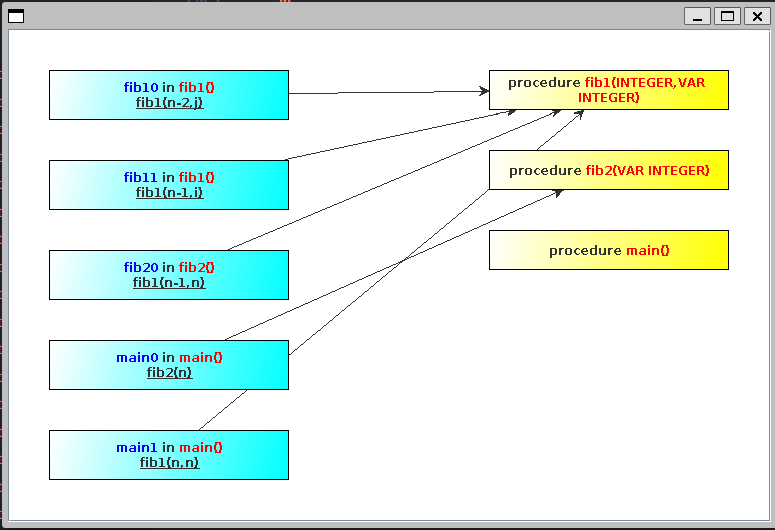
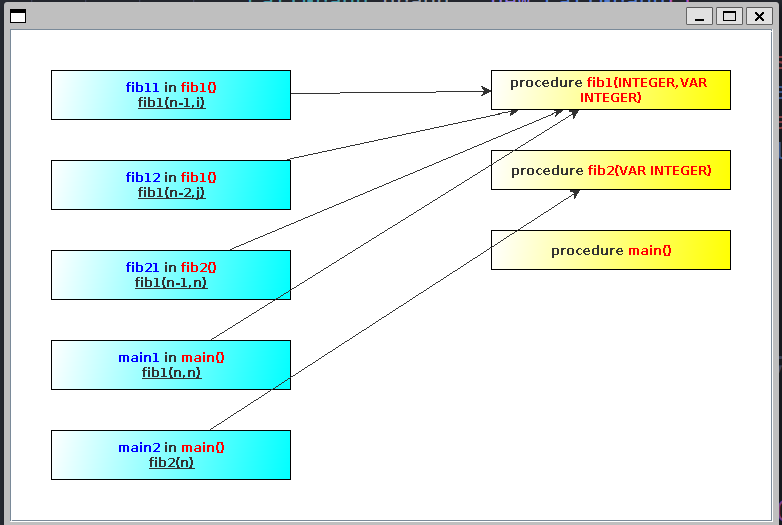
Modified

diff --git a/exp3/ex3/src/Main.java b/exp3/ex3/src/Main.java
@@ -2,6 +2,7 @@ import java_cup.runtime.*;
 import ast.*;
 import java.util.ArrayList;
 import java.util.HashMap;
+import java.util.Collections;
 import callgraph.*;
 import exceptions.*;
 import java.io.*;
@@ -99,7 +100,8 @@ public class Main {
 
 				for (procedureDec func : mb.declarations.procDecs) {
 					ArrayList<callStmt> calls = func.body.calls;
-					Integer begin = 0;
+					Collections.reverse(calls);
+					Integer begin = 1;
 					for (callStmt call : calls) {
 						Integer idx = mb.declarations.pros.get(call.name.toUpperCase());
 						if (idx == null) {

diff --git a/exp3/ex3/yaccgen.md b/exp3/ex3/yaccgen.md
@@ -19,6 +19,12 @@
 
 通过观察代码的调用情况，与代码相符合，同时对于其它类型的问题，使用 `./autotest.py` 进行自动测试，得到的结果会写入 `results` 目录下，经过对比，所有的语法/语义错误均被正确的查出，由于错误案例较多，这里不再赘述，在 `results` 目录下存留有最后提交的实际情况
 
+同时还对实验文档提供的样例进行了测试，文件在 `testcases/callgraph.obr`，得到的结果如下
+
+![](./img/result_callgraph.png)
+
+可以看到，与文档所提供的图相同
+
 ### 比较生成工具
 
 GNU Bison 也是之前曾经有使用过，对其稍有了解，其和 JavaCUP 一样，是一个 LALR(1) 的语法分析器生成工具，但是在文档中，GNU Bison 还可以支持生成其它更加复杂的语法分析器，比如 LR(1)、GLR、IELR、SLR 等等，但是这些都是在文档中提到的，我本身在之前只用其生成过 LALR(1) 的语法分析器，对于其它的一些 LR 文法，如 GLR, IRLR 等也不太了解，同时受制于时间，这里就不再深入研究了。
